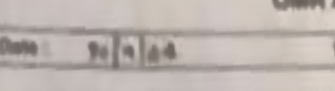
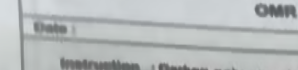
feat: restore original highly tuned contrast/ratio classification thresholds

diff --git a/Vision_OMR_System/backend_ai/core/classification.py b/Vision_OMR_System/backend_ai/core/classification.py
@@ -106,33 +106,15 @@ def classify_bubble(
     local_paper = float(np.percentile(gray[outer_mask], 90)) if np.any(outer_mask) else 255.0
     contrast_diff = local_paper - mean_inner
     ratio = contrast_diff / local_paper if local_paper > 0 else 0.0
-    std_inner = float(np.std(gray[mask_indices])) if np.any(mask_indices) else 0.0
     
-    # Calculate ink fill ratio relative to local paper brightness
-    thresh_val = max(40.0, local_paper - 28.0)
-    ink_pixels = np.count_nonzero(gray[mask_indices] < thresh_val) if np.any(mask_indices) else 0
-    mask_pixels = np.count_nonzero(mask)
-    fill_ratio = ink_pixels / mask_pixels if mask_pixels > 0 else 0.0
-    
-    if mean_inner < 50.0 and local_paper < 50.0:
+    if contrast_diff >= 32.0 and ratio >= 0.15:
         state = BubbleState.FILLED
-    elif contrast_diff >= 28.0 and ratio >= 0.12 and fill_ratio >= 0.15:
-        if std_inner < 32.0:
-            state = BubbleState.FILLED
-        else:
-            state = BubbleState.AMBIGUOUS
-    elif contrast_diff <= 18.0 or ratio <= 0.08 or fill_ratio < 0.08:
+    elif contrast_diff <= 20.0 or ratio <= 0.09:
         state = BubbleState.EMPTY
     else:
-        # Ambiguous zone fallback
-        if detection.class_name == "unfilled" and detection.confidence > 0.70:
-            state = BubbleState.EMPTY
-        elif detection.class_name == "filled" and detection.confidence > 0.75:
-            state = BubbleState.FILLED
-        else:
-            state = BubbleState.AMBIGUOUS
-            
-    return ClassificationResult(detection, state, fill_ratio)
+        state = BubbleState.AMBIGUOUS
+        
+    return ClassificationResult(detection, state, 0.0)
 
 
 def classify_all(
@@ -168,30 +150,28 @@ def classify_all(
         contrast_diff = local_paper - mean_inner
         ratio = contrast_diff / local_paper if local_paper > 0 else 0.0
         
-        # Calculate ink fill ratio relative to local paper brightness
-        thresh_val = max(40.0, local_paper - 28.0)
-        ink_pixels = np.count_nonzero(gray[mask_indices] < thresh_val) if np.any(mask_indices) else 0
-        mask_pixels = np.count_nonzero(mask)
-        fill_ratio = ink_pixels / mask_pixels if mask_pixels > 0 else 0.0
-        
-        if mean_inner < 50.0 and local_paper < 50.0:
-            state = BubbleState.FILLED
-        elif contrast_diff >= 28.0 and ratio >= 0.12 and fill_ratio >= 0.15:
-            if std_inner < 32.0:
+        if contrast_diff >= 32.0 and ratio >= 0.15:
+            if std_inner < 28.0:
                 state = BubbleState.FILLED
             else:
                 state = BubbleState.AMBIGUOUS
-        elif contrast_diff <= 18.0 or ratio <= 0.08 or fill_ratio < 0.08:
+        elif contrast_diff <= 20.0 or ratio <= 0.09:
             state = BubbleState.EMPTY
         else:
             # Ambiguous zone: verify with YOLO model's confidence
-            if det.class_name == "unfilled" and det.confidence > 0.70:
+            if det.class_name == "unfilled" and det.confidence > 0.75:
                 state = BubbleState.EMPTY
-            elif det.class_name == "filled" and det.confidence > 0.75:
+            elif det.class_name == "filled" and det.confidence > 0.80:
                 state = BubbleState.FILLED
             else:
                 state = BubbleState.AMBIGUOUS
                 
+        # Otsu fill ratio for fallback/meta compatibility if needed
+        mask_pixels = np.count_nonzero(mask)
+        _, otsu_bin = cv2.threshold(gray, 0, 255, cv2.THRESH_BINARY_INV + cv2.THRESH_OTSU)
+        otsu_masked = cv2.bitwise_and(otsu_bin, mask)
+        fill_ratio = np.count_nonzero(otsu_masked) / mask_pixels if mask_pixels > 0 else 0.0
+        
         results.append(ClassificationResult(det, state, fill_ratio))
         
     return results
